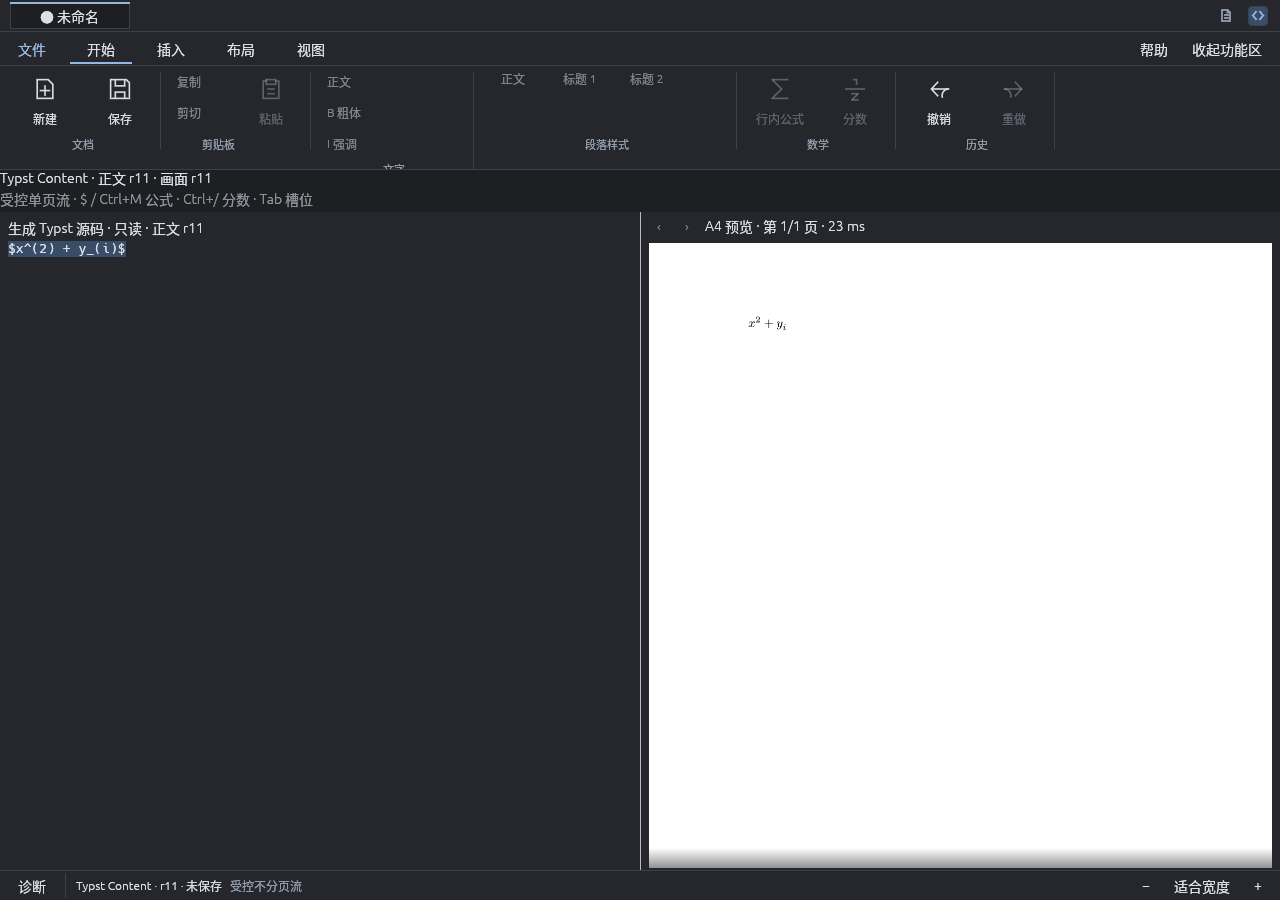
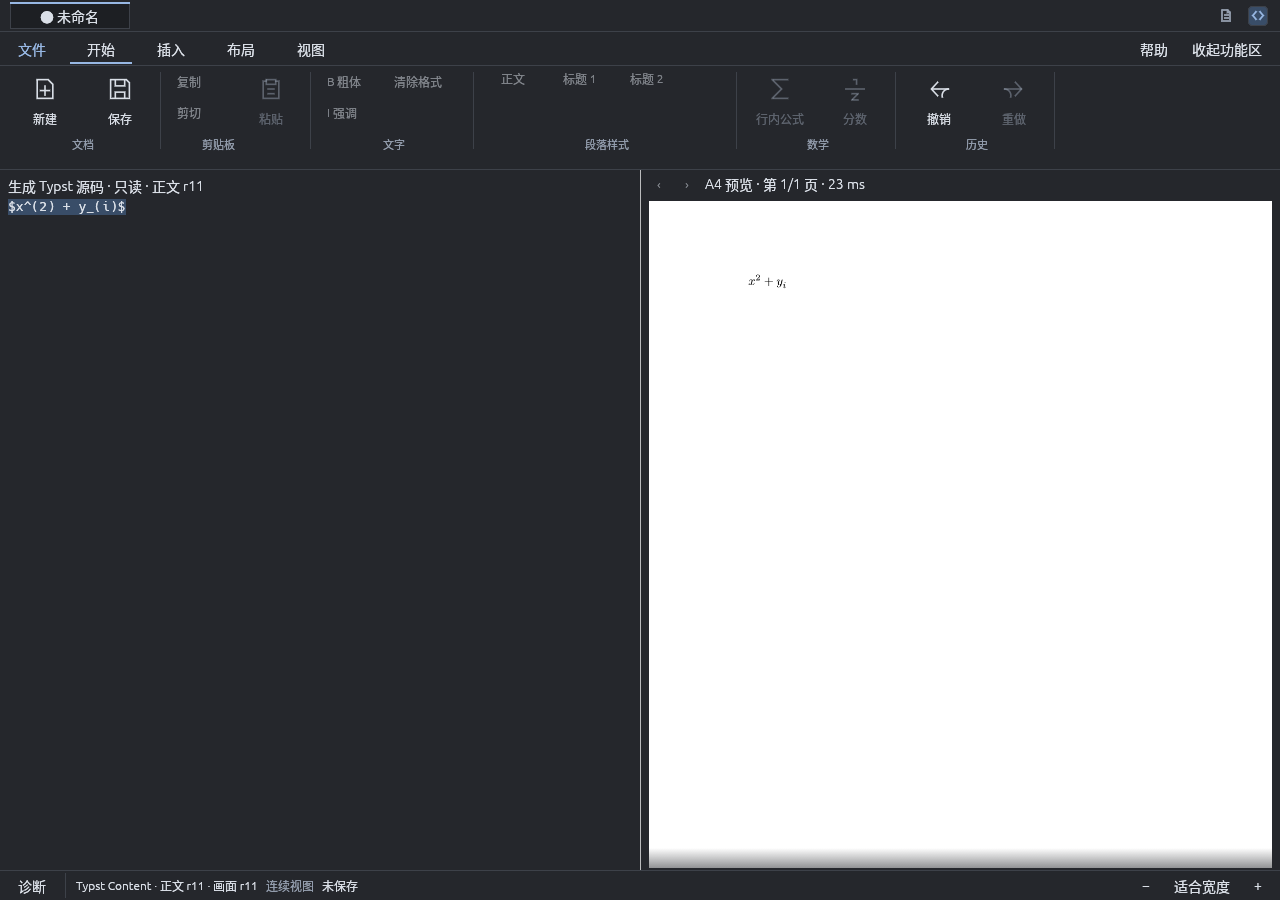
docs: refresh SPK-0064 evidence on the A4 surface

diff --git a/docs/spikes/SPK-0064-math-attach.md b/docs/spikes/SPK-0064-math-attach.md
@@ -2,7 +2,7 @@
 
 - 日期：2026-10-12；结论：**Pass**。
 - 对应：[ADR 0039](../adr/ADR-0039-math-attach.md)、[体验原则](../EXPERIENCE.md)“上下标是显式节点，不靠字符串猜当前槽位”。
-- 基线：main `da9a39f`；分支 `ation_ciger/feat/math-attach`。
+- 基线：main（合并 A4 编辑面后）；分支 `ation_ciger/feat/math-attach`。
 
 ## 问题
 
@@ -43,7 +43,7 @@ xvfb-run -a -s '-screen 0 1280x900x24' python3 spikes/typst-main-editor/math-att
 
 | 检查 | 结果与证据 |
 |---|---|
-| 回归 | **210 passed / 0 failed**；[tests.log](evidence/SPK-0064/tests.log)。新增：模型 4（往返、缺槽拒绝、身份/未填、深度）、文档 17（拆分、起始/Hole、补第二槽、重复槽、占位 Hole、删槽拍平并合并 Text、撤销、边界）、源码 4、编辑面几何 6（每个字素边界有 caret、52 个字母均为斜体原子、`x+y` 原子与二元间距、槽位置、空槽/Hole 基、Row 内叶）、应用 16（含占位 Hole 生命周期：点击/Left/Ctrl+Home/End 离开恢复原快照且无多余撤销步、一次撤销撤销用户上一步、空占位 Right 退出公式、在占位中输入则保留）+ 朗读 2 |
+| 回归 | **217 passed / 0 failed**；[tests.log](evidence/SPK-0064/tests.log)。新增：模型 4（往返、缺槽拒绝、身份/未填、深度）、文档 17（拆分、起始/Hole、补第二槽、重复槽、占位 Hole、删槽拍平并合并 Text、撤销、边界）、源码 4、编辑面几何 6（每个字素边界有 caret、52 个字母均为斜体原子、`x+y` 原子与二元间距、槽位置、空槽/Hole 基、Row 内叶）、应用 16（含占位 Hole 生命周期：点击/Left/Ctrl+Home/End 离开恢复原快照且无多余撤销步、一次撤销撤销用户上一步、空占位 Right 退出公式、在占位中输入则保留）+ 朗读 2 |
 | 输入语义 | `$x^2` → 右键 → `+y` 得 Row[Attach{x, sup 2}, Text "+y"]；`x_i^2` 得单个带两槽的 Attach；正文与粘贴中的 `^`/`_` 保持字面 |
 | 生成源码 | `#$\"/^_&@` 等逐个出现在预览编译输出的文字里、不在引号串之外出现；`x^(2)_(i)`、`(a b)^(2)`、`(x^(2))^(3)` 编译通过 |
 | gates | fmt、clippy（`-D warnings`）、文件规模：[fmt.log](evidence/SPK-0064/fmt.log)、[clippy.log](evidence/SPK-0064/clippy.log)、[size.log](evidence/SPK-0064/size.log) |
